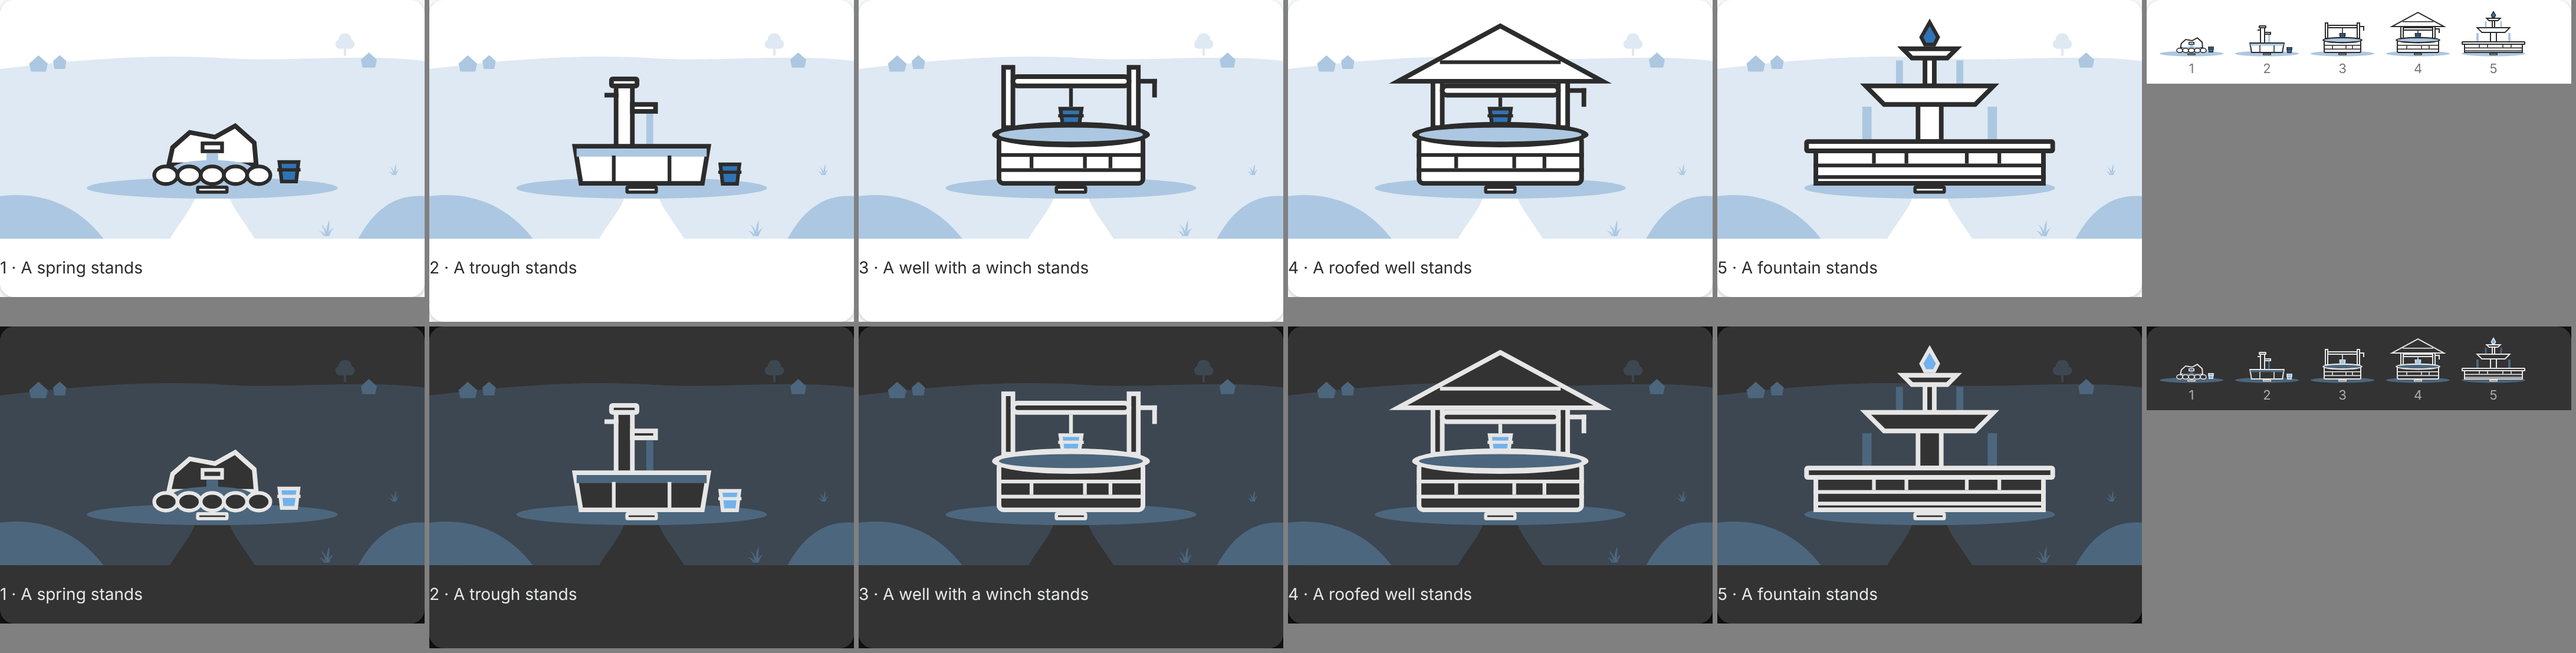
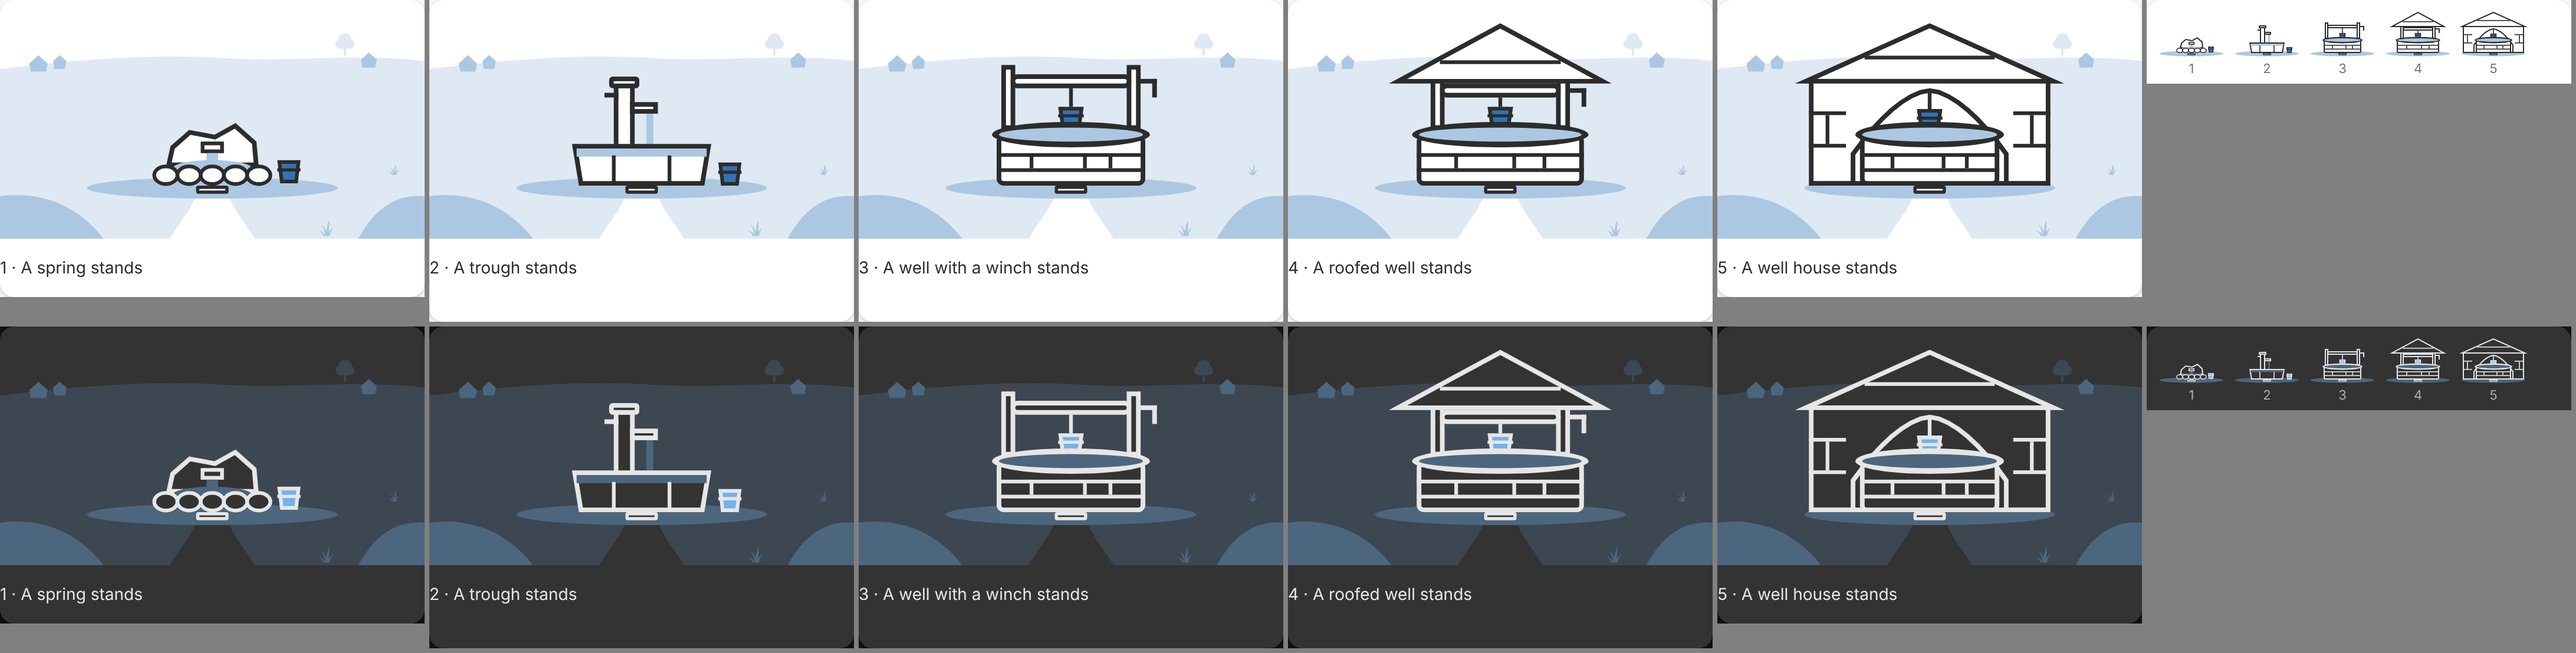
Art: Well ends in a well house, not a fountain (#128)
The owner rejected the fountain as Well's fifth version: a fountain is
another use than a well. It is now a stone well house whose tall, wide
arch shows the well with its rope and bucket. Titles "A well house" /
"Ein Brunnenhaus"; docs and pictures follow.

Claude-Session: https://claude.ai/code/session_019PsDpCdRYaLb9552fVk121

diff --git a/docs/log.md b/docs/log.md
@@ -2,7 +2,7 @@
 
 ## 2026-11-15
 
-- **Creation** (#128, Well): the ladder Well, drawn by `scripts/draw-ladders.mjs`: a spring from a rock into a basin of stones, a trough under a pump, a round well with a winch, the well under a roof, a fountain of two bowls; each whole and larger than the one before, on Home's threshold stone. Water in the builds is `tint-strong`; the accent is the bucket and the fountain's top jet. Its land setting `setting-green` (a village green: a far ridge with roofs, no water) shares Home's path and marker posts; default marker lanterns, default hue water blue; titles in English and German. Checked at 360 × 720 and in the row at 60 × 40, light and dark, over two rounds: the spring's rock first read as a hut and is now a low, broken outcrop; the well wall read as a crate and now has a round rim around its water; the fountain's crown read as an egg and is now a jet of water ([journey design](journey-design.md#builds-and-ladders-the-valley-42), `docs/screenshots/ladder-well*.png`). Lookout follows after the owner's judgement.
+- **Creation** (#128, Well): the ladder Well, drawn by `scripts/draw-ladders.mjs`: a spring from a rock into a basin of stones, a trough under a pump, a round well with a winch, the well under a roof, a stone well house with the well under its arch; each whole and larger than the one before, on Home's threshold stone. Water in the builds is `tint-strong`; the accent is the bucket. Its land setting `setting-green` (a village green: a far ridge with roofs, no water) shares Home's path and marker posts; default marker lanterns, default hue water blue; titles in English and German. Checked at 360 × 720 and in the row at 60 × 40, light and dark: the spring's rock first read as a hut and is now a low, broken outcrop; the well wall read as a crate and now has a round rim around its water. The fifth version was first a fountain; the owner rejected it (a fountain is another use than a well), so it is a well house: a closed house with a door read as a second Home house and a low arch as a garage, so its arch is tall and wide and shows the well with its rope and bucket ([journey design](journey-design.md#builds-and-ladders-the-valley-42), `docs/screenshots/ladder-well*.png`). Lookout follows after the owner's judgement.
 - **Creation** (#128, Garden): the ladder Garden, drawn by `scripts/draw-ladders.mjs`: a garden bed with a sunflower, a garden in rows, a garden with a hedge and a fruit tree, a greenhouse, an orchard around the greenhouse; each whole and larger than the one before, on the same threshold stone as Home. Its land setting `setting-field` (open fields, low hills, no water) shares Home's path to the threshold and marker posts (`sides`); default marker flowers, default hue moss; titles in English and German. The engine's list of ladders reads `garden.ladder.json` (no rule changed). Checked at 360 × 720 and in the row of versions at 60 × 40, light and dark, over three rounds: the bean poles were dropped as noise, the hedge became a row of round bushes instead of a box, plants rise further above their beds, the greenhouse stands on a low wall that hides its plants' feet, and the trees of the greenhouse and the orchard stand behind the hedge so their trunks do not read as posts ([journey design](journey-design.md#builds-and-ladders-the-valley-42), `docs/screenshots/ladder-garden*.png`). Well and Lookout follow after the owner's judgement.
 
 ## 2026-11-14

diff --git a/docs/journey-design.md b/docs/journey-design.md
@@ -139,7 +139,7 @@ journey):
    home or a garden) has one: the threshold stone (x = 53–67,
    y = 74–77.5) in front of the fire, the tent's opening and each door,
    of the garden's bed and the greenhouse door, or of the spring, the
-   trough, the well and the fountain, where the path ends.
+   trough, the well and the well house, where the path ends.
    `ways` lists them; the checker requires a corner of every version and
    of the setting's path at each way point.
 4. **Water runs through.** Water in a setting runs from edge to edge (the
@@ -167,11 +167,12 @@ journey):
    the rows before a hedge with a fruit tree, a greenhouse between hedges
    and trees, an orchard of five fruit trees around the greenhouse. Well
    is a spring from a rock into a basin of stones, a trough under a pump,
-   a round well with a winch, the well under a roof, a fountain of two
-   bowls over a wide basin.
+   a round well with a winch, the well under a roof, a stone well
+   house with the well under its arch (owner: a fountain is another use,
+   not a well).
 8. **Look.** Outlined in `fg` with a `bg` fill, one `accent` detail (the
    flame, a glowing door or window, the keystone, a rail cap, the
-   sunflower, the fruit, the bucket, the fountain's top jet), water and
+   sunflower, the fruit, the bucket), water and
    the yard in `tint-strong` of the region's hue. The setting is quiet:
    ground and far trees in `tint`, a few reused plants (tuft, reeds, bush,
    flowers, far trees) in the [depth bands](#look-and-depth-bands).
